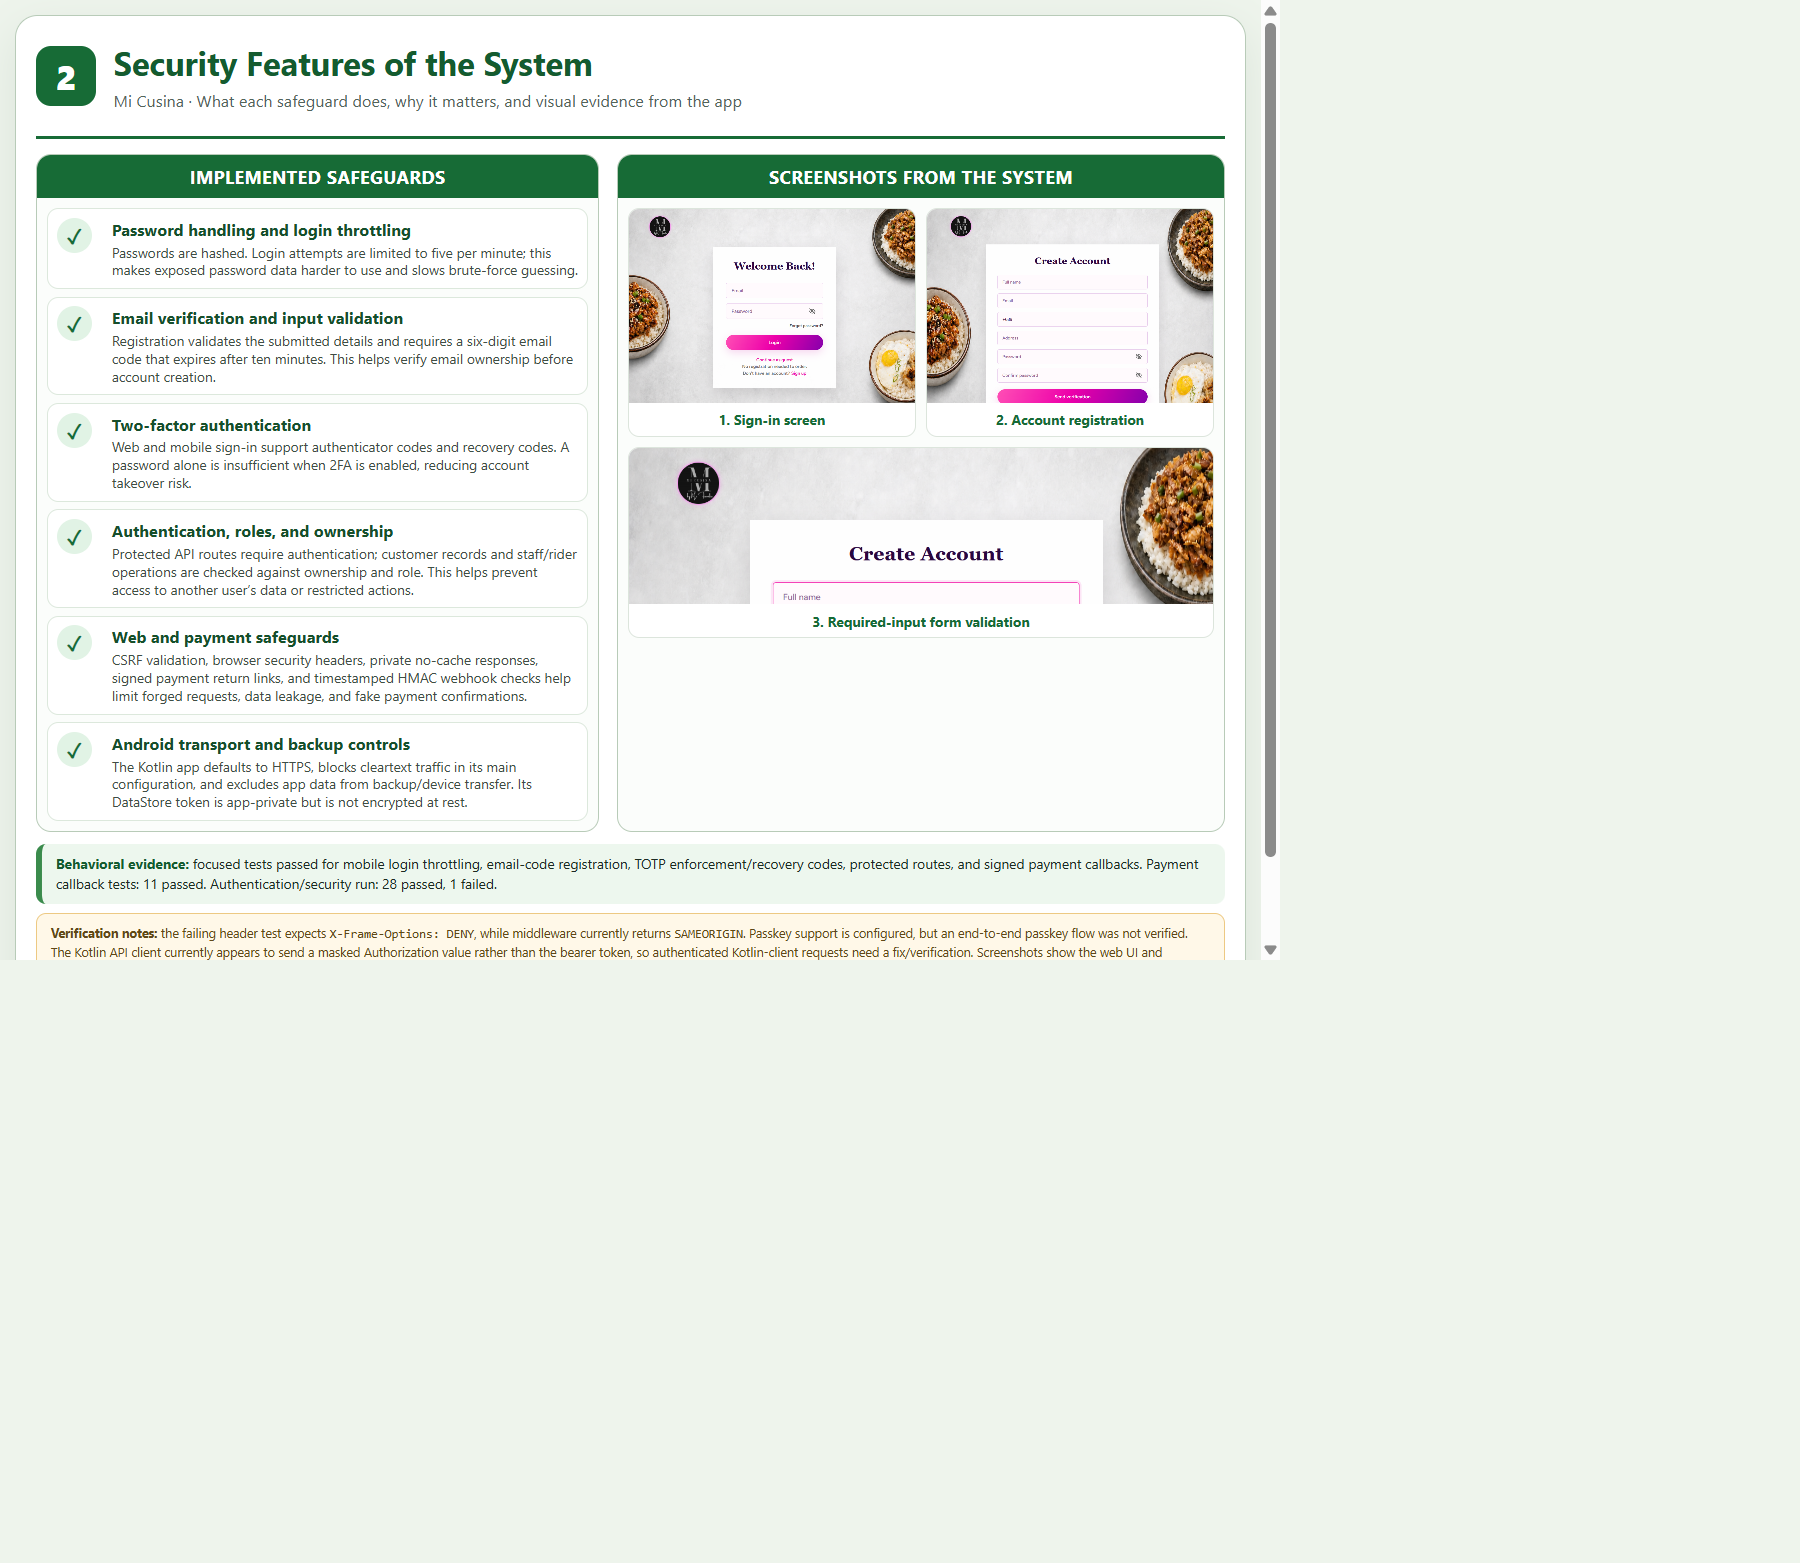
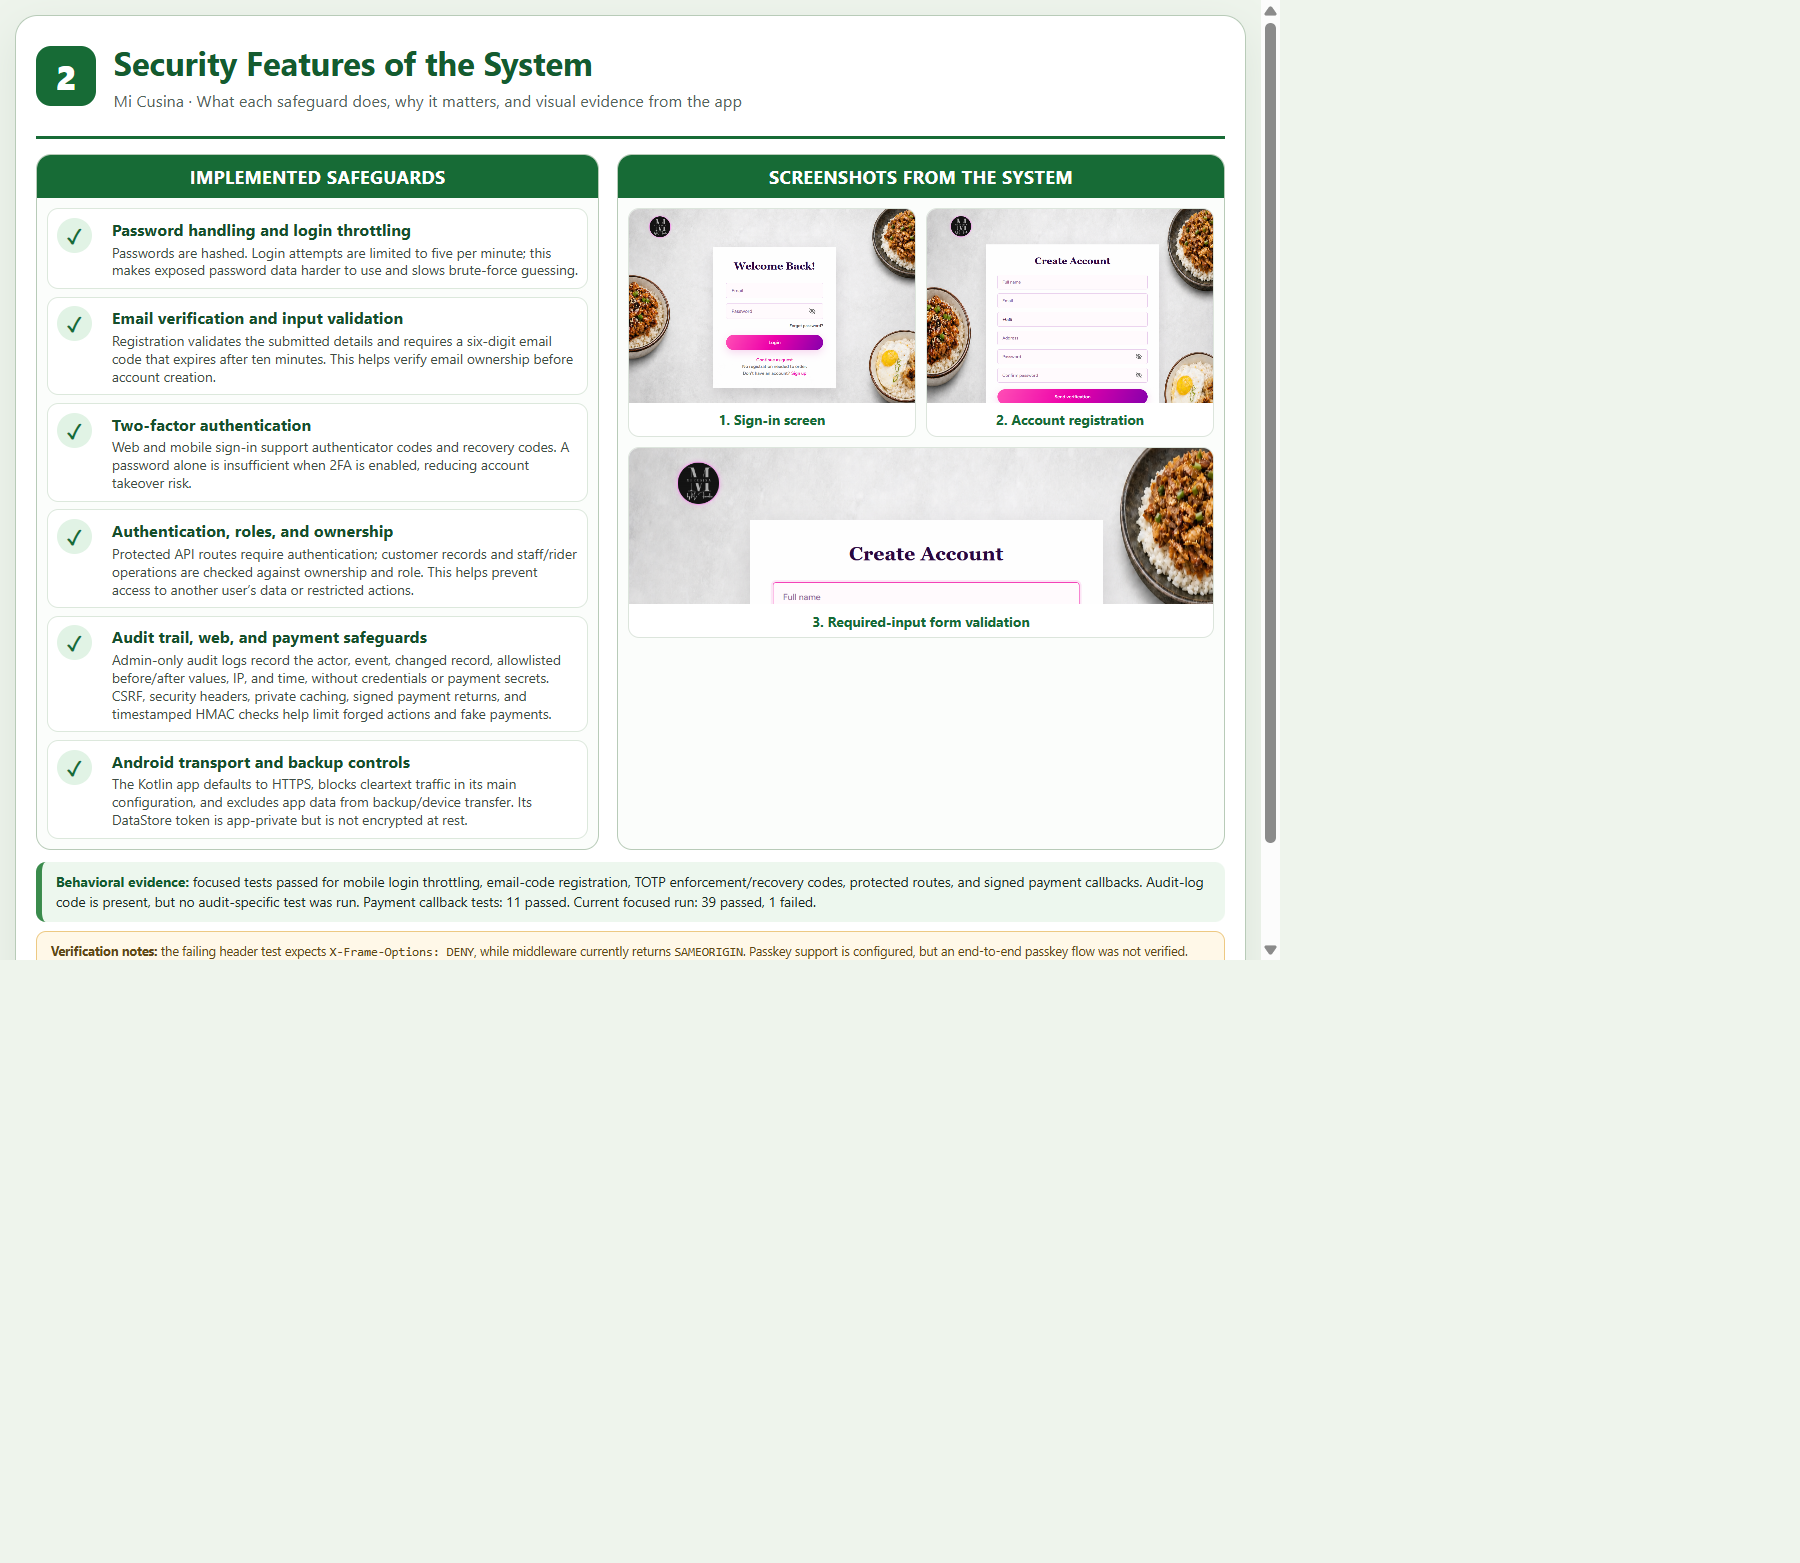
aaaa

Changed region(s): [[0.0311, 0.3992, 0.6533, 0.6142]]

diff --git a/security-evidence/security-features-summary.html b/security-evidence/security-features-summary.html
@@ -206,8 +206,8 @@
           <article class="feature">
             <span class="check">✓</span>
             <div>
-              <h2>Web and payment safeguards</h2>
-              <p>CSRF validation, browser security headers, private no-cache responses, signed payment return links, and timestamped HMAC webhook checks help limit forged requests, data leakage, and fake payment confirmations.</p>
+              <h2>Audit trail, web, and payment safeguards</h2>
+              <p>Admin-only audit logs record the actor, event, changed record, allowlisted before/after values, IP, and time, without credentials or payment secrets. CSRF, security headers, private caching, signed payment returns, and timestamped HMAC checks help limit forged actions and fake payments.</p>
             </div>
           </article>
           <article class="feature">
@@ -240,7 +240,7 @@
     </div>
 
     <aside class="evidence">
-      <strong>Behavioral evidence:</strong> focused tests passed for mobile login throttling, email-code registration, TOTP enforcement/recovery codes, protected routes, and signed payment callbacks. Payment callback tests: 11 passed. Authentication/security run: 28 passed, 1 failed.
+      <strong>Behavioral evidence:</strong> focused tests passed for mobile login throttling, email-code registration, TOTP enforcement/recovery codes, protected routes, and signed payment callbacks. Audit-log code is present, but no audit-specific test was run. Payment callback tests: 11 passed. Current focused run: 39 passed, 1 failed.
     </aside>
     <aside class="caveat">
       <strong>Verification notes:</strong> the failing header test expects <code>X-Frame-Options: DENY</code>, while middleware currently returns <code>SAMEORIGIN</code>. Passkey support is configured, but an end-to-end passkey flow was not verified. The Kotlin API client currently appears to send a masked Authorization value rather than the bearer token, so authenticated Kotlin-client requests need a fix/verification. Screenshots show the web UI and required-field behavior; other controls are evidenced by automated backend tests, not these images.

diff --git a/resources/views/admin/audit_logs.blade.php b/resources/views/admin/audit_logs.blade.php
@@ -1,33 +1,54 @@
-@extends('admin.body')
-
-@section('admin_content')
-<div class="container-fluid py-4">
-    <h1 class="h3 mb-3">Audit Logs</h1>
-    <form method="GET" action="{{ route('admin.audit-logs') }}" class="mb-3">
-        <div class="input-group" style="max-width: 480px">
-            <input class="form-control" name="event" value="{{ request('event') }}" placeholder="Filter by event">
-            <button class="btn btn-primary" type="submit">Filter</button>
+<!DOCTYPE html>
+<html>
+<head>
+    @include('admin.css')
+    <style>
+        .audit-frame { background: radial-gradient(circle at top left, rgba(255,255,255,.08), transparent 28%), #0c0d10; border: 1px solid #2b2f38; border-radius: 8px; color: #fff; margin: 0; min-height: calc(100vh - 120px); padding: 24px; }
+        .audit-frame h2 { color: #fff; font-size: 26px; font-weight: 800; margin-bottom: 18px; }
+        .audit-panel { background: #15171c; border: 1px solid #2b2f38; border-radius: 8px; overflow-x: auto; }
+        .audit-table { border-collapse: collapse; min-width: 900px; width: 100%; }
+        .audit-table th { background: #101116; color: #a6abb6; font-size: 12px; padding: 14px 16px; text-align: left; text-transform: uppercase; }
+        .audit-table td { border-top: 1px solid #2b2f38; color: #f3f4f6; padding: 12px 16px; vertical-align: top; }
+        .audit-table code { color: #bae6fd; white-space: pre-wrap; word-break: break-word; }
+        .audit-filter { display: flex; gap: 8px; margin-bottom: 16px; max-width: 480px; }
+        .audit-pagination { margin-top: 16px; }
+        .audit-pagination nav div p, .audit-pagination nav span, .audit-pagination nav a { color: #fff !important; }
+    </style>
+</head>
+<body>
+    @include('admin.header')
+    @include('admin.sidebar')
+    <div class="page-content">
+        <div class="page-header">
+            <div class="container-fluid audit-frame">
+                <h2>Audit Logs</h2>
+                <form method="GET" action="{{ route('admin.audit-logs') }}" class="audit-filter">
+                    <input class="form-control" name="event" value="{{ request('event') }}" placeholder="Filter by event">
+                    <button class="btn btn-primary" type="submit">Filter</button>
+                </form>
+                <div class="audit-panel">
+                    <table class="audit-table">
+                        <thead><tr><th>Time</th><th>Actor</th><th>Event</th><th>Record</th><th>Changes</th><th>IP</th></tr></thead>
+                        <tbody>
+                        @forelse($logs as $log)
+                            <tr>
+                                <td>{{ $log->created_at?->format('Y-m-d H:i:s') }}</td>
+                                <td>{{ $log->user?->name ?? 'System / deleted user' }}</td>
+                                <td>{{ $log->event }}</td>
+                                <td>{{ $log->auditable_type ? class_basename($log->auditable_type).' #'.$log->auditable_id : '-' }}</td>
+                                <td><code>{{ json_encode(['from' => $log->old_values, 'to' => $log->new_values], JSON_UNESCAPED_UNICODE) }}</code></td>
+                                <td>{{ $log->ip_address ?? '-' }}</td>
+                            </tr>
+                        @empty
+                            <tr><td colspan="6" class="text-center">No audit events found.</td></tr>
+                        @endforelse
+                        </tbody>
+                    </table>
+                </div>
+                <div class="audit-pagination">{{ $logs->links() }}</div>
+            </div>
         </div>
-    </form>
-    <div class="table-responsive">
-        <table class="table table-striped table-bordered align-middle">
-            <thead><tr><th>Time</th><th>Actor</th><th>Event</th><th>Record</th><th>Changes</th><th>IP</th></tr></thead>
-            <tbody>
-            @forelse($logs as $log)
-                <tr>
-                    <td>{{ $log->created_at?->format('Y-m-d H:i:s') }}</td>
-                    <td>{{ $log->user?->name ?? 'System / deleted user' }}</td>
-                    <td>{{ $log->event }}</td>
-                    <td>{{ $log->auditable_type ? class_basename($log->auditable_type).' #'.$log->auditable_id : '—' }}</td>
-                    <td><code>{{ json_encode(['from' => $log->old_values, 'to' => $log->new_values], JSON_UNESCAPED_UNICODE) }}</code></td>
-                    <td>{{ $log->ip_address ?? '—' }}</td>
-                </tr>
-            @empty
-                <tr><td colspan="6" class="text-center">No audit events found.</td></tr>
-            @endforelse
-            </tbody>
-        </table>
     </div>
-    {{ $logs->links() }}
-</div>
-@endsection
+    @include('admin.js')
+</body>
+</html>
